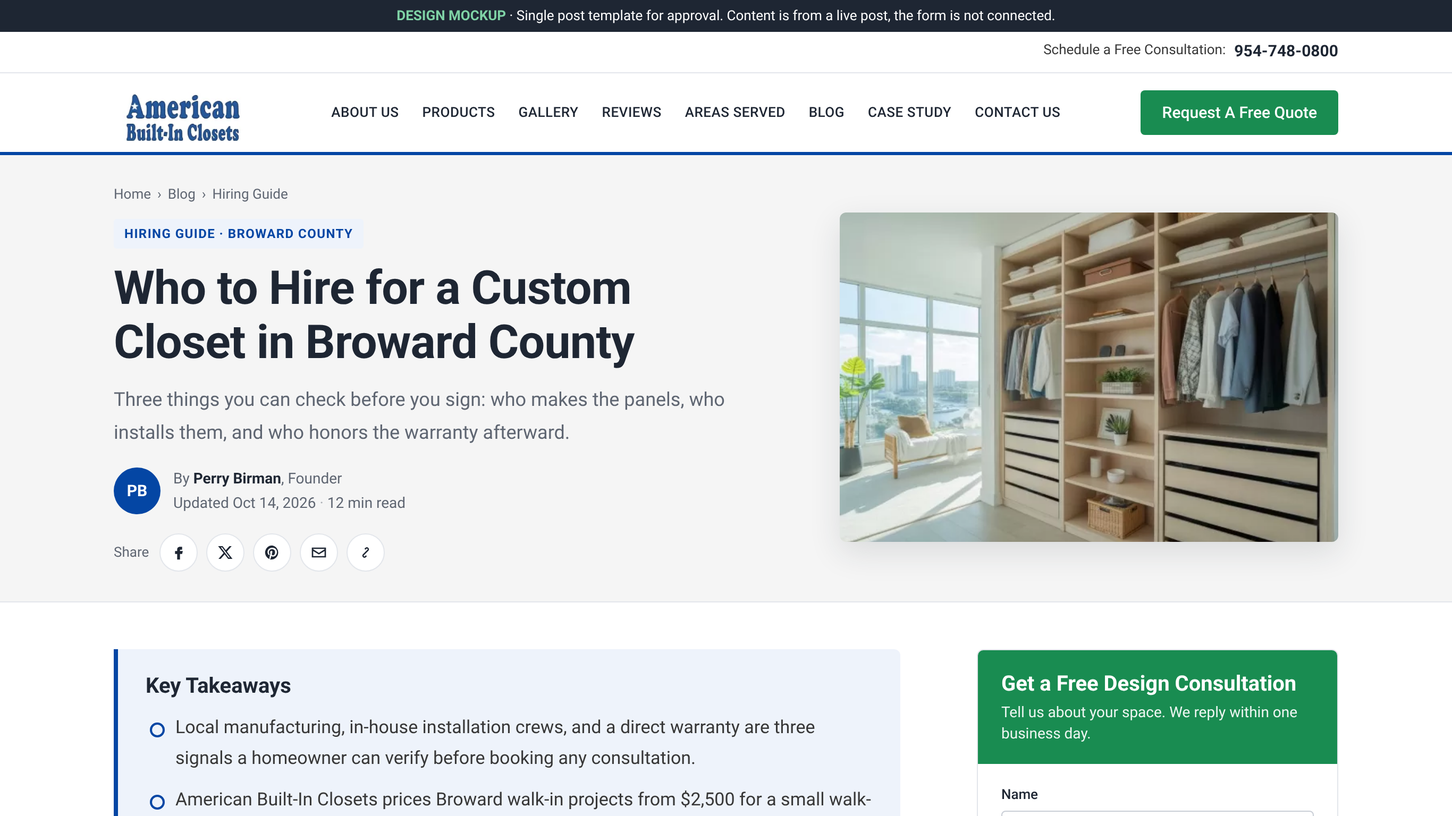
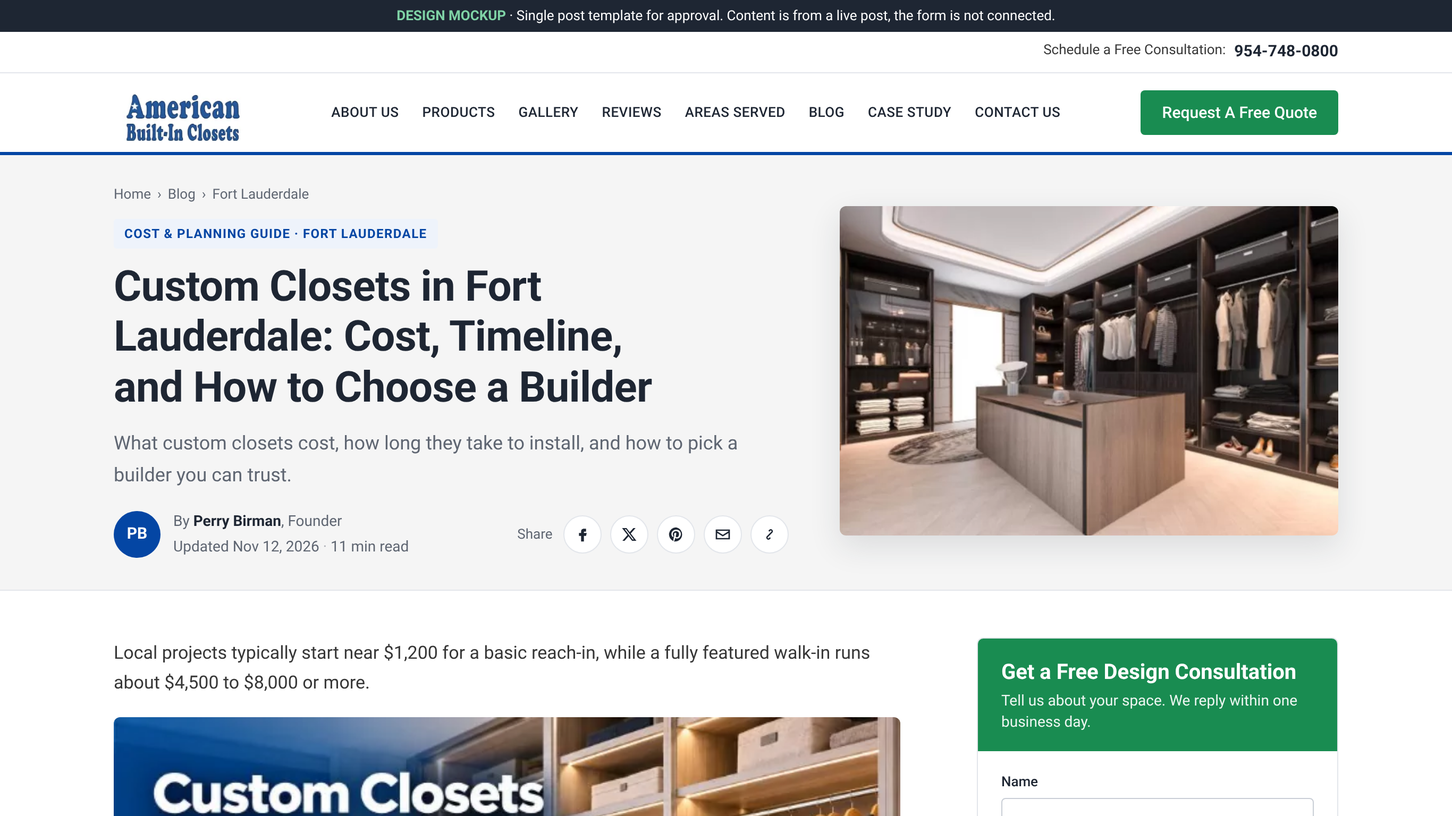
Use Fort Lauderdale post content in single post mockup
Swap in the full content of custom-closet-designer-fort-lauderdale
(tables, inline images, neighborhoods, permit section, 10 FAQs).
Add styled tables that stack as cards on mobile, a contact band,
and move share icons beside the byline to keep the hero near 410px.

Claude-Session: https://claude.ai/code/session_01EBgQvJjERmq5Bnq5eGdiC9

diff --git a/mockups/single-post-layout.html b/mockups/single-post-layout.html
@@ -51,13 +51,15 @@
   .crumbs a{color:var(--muted);text-decoration:none} .crumbs a:hover{text-decoration:underline}
   .crumbs span{margin:0 6px}
   .chip{display:inline-block;background:var(--tint);color:var(--navy);font-size:12px;font-weight:700;letter-spacing:.06em;text-transform:uppercase;padding:4px 10px;border-radius:3px;margin-bottom:12px}
-  h1{font-size:44px;line-height:1.15;color:var(--heading);margin:0 0 14px;font-weight:700;text-wrap:balance;letter-spacing:-.01em}
+  h1{font-size:40px;line-height:1.18;color:var(--heading);margin:0 0 14px;font-weight:700;text-wrap:balance;letter-spacing:-.01em}
   .dek{font-size:18px;color:var(--muted);margin:0 0 16px;max-width:60ch}
   .meta{display:flex;align-items:center;gap:12px;flex-wrap:wrap;font-size:14px;color:var(--muted)}
   .avatar{width:44px;height:44px;border-radius:50%;background:var(--navy);color:#fff;display:grid;place-items:center;font-weight:700;font-size:15px;flex:none}
   .meta strong{color:var(--heading)}
   .meta .dot{opacity:.5}
   .hero-actions{display:flex;align-items:center;gap:16px;margin-top:16px;flex-wrap:wrap}
+  .byline-row{display:flex;align-items:center;justify-content:space-between;gap:16px 24px;flex-wrap:wrap}
+  .byline-row .hero-actions{margin-top:0}
   .hero-img{border-radius:var(--radius);overflow:hidden;aspect-ratio:3/2;max-height:310px;width:100%;box-shadow:0 10px 30px rgba(30,38,51,.12)}
   .hero-img img{width:100%;height:100%;object-fit:cover}
 
@@ -132,6 +134,22 @@
   .card small{color:var(--green);font-weight:700;font-size:11px;letter-spacing:.06em;text-transform:uppercase}
   .card h3{font-size:16px;line-height:1.35;margin:6px 0 0;color:var(--heading)}
 
+  .inline-img{margin:8px 0 26px}
+  .inline-img img{width:100%;height:auto;border-radius:var(--radius)}
+  .table-wrap{overflow-x:auto;margin:6px 0 24px;border:1px solid var(--line);border-radius:var(--radius)}
+  .table-wrap table{border-collapse:collapse;width:100%;font-size:15px;line-height:1.5;min-width:520px}
+  .table-wrap th{background:var(--navy);color:#fff;text-align:left;font-weight:500;padding:12px 14px}
+  .table-wrap td{padding:11px 14px;border-top:1px solid var(--line);vertical-align:top}
+  .table-wrap tbody tr:nth-child(even){background:var(--bg-soft)}
+  .table-wrap td:first-child{font-weight:500;color:var(--heading)}
+  .cta-btns{display:flex;flex-direction:column;gap:10px}
+  .btn.ghost-light{background:transparent;border:1.5px solid rgba(255,255,255,.7);color:#fff}
+  .btn.ghost-light:hover{background:rgba(255,255,255,.12)}
+  .contact-band{background:var(--bg-soft);border:1px solid var(--line);border-radius:var(--radius);padding:22px 24px}
+  .contact-band p{margin:0 0 16px}
+  .contact-band .cta-btns{flex-direction:row;flex-wrap:wrap}
+  article ul li strong{color:var(--heading)}
+
   /* Sidebar */
   aside{display:flex;flex-direction:column;gap:24px}
   .box{border:1px solid var(--line);border-radius:var(--radius);background:#fff;overflow:hidden}
@@ -174,7 +192,7 @@
   @media (max-width:900px){
     .hero .wrap{grid-template-columns:1fr;gap:24px;padding-top:24px;padding-bottom:28px}
     .hero-img{aspect-ratio:16/9;max-height:none}
-    .layout{grid-template-columns:1fr;padding-top:28px}
+    .layout{grid-template-columns:minmax(0,1fr);padding-top:28px}
     article{max-width:none}
     .toc-inline{display:block}
     .toc-box{display:none}
@@ -191,6 +209,16 @@
     article h2{font-size:23px}
     .hero-actions .share .lbl{display:none}
     .inline-cta{grid-template-columns:1fr;padding:22px}
+    .contact-band .cta-btns{flex-direction:column}
+    .table-wrap{border:0;overflow:visible}
+    .table-wrap table{min-width:0}
+    .table-wrap thead{position:absolute;width:1px;height:1px;overflow:hidden;clip:rect(0 0 0 0)}
+    .table-wrap tr{display:block;border:1px solid var(--line);border-radius:var(--radius);margin-bottom:10px;background:#fff!important;overflow:hidden}
+    .table-wrap td{display:grid;grid-template-columns:42% 1fr;gap:10px;border-top:1px solid var(--line);padding:9px 14px}
+    .table-wrap td::before{content:attr(data-label);font-weight:500;color:var(--muted);font-size:13px}
+    .table-wrap td:first-child{display:block;border-top:0;background:var(--navy);color:#fff}
+    .table-wrap td:first-child::before{display:none}
+    .contact-band .btn{width:100%}
     .author{grid-template-columns:1fr}
     .cards{grid-template-columns:1fr}
     .mobile-bar{display:grid;grid-template-columns:1fr 1fr;position:fixed;left:0;right:0;bottom:0;z-index:55;box-shadow:0 -4px 16px rgba(0,0,0,.12)}
@@ -221,13 +249,14 @@
   <section class="hero">
     <div class="wrap">
       <div>
-        <p class="crumbs"><a href="#">Home</a><span>›</span><a href="#">Blog</a><span>›</span>Hiring Guide</p>
-        <span class="chip">Hiring Guide · Broward County</span>
-        <h1>Who to Hire for a Custom Closet in Broward County</h1>
-        <p class="dek">Three things you can check before you sign: who makes the panels, who installs them, and who honors the warranty afterward.</p>
+        <p class="crumbs"><a href="#">Home</a><span>›</span><a href="#">Blog</a><span>›</span>Fort Lauderdale</p>
+        <span class="chip">Cost &amp; Planning Guide · Fort Lauderdale</span>
+        <h1>Custom Closets in Fort Lauderdale: Cost, Timeline, and How to Choose a Builder</h1>
+        <p class="dek">What custom closets cost, how long they take to install, and how to pick a builder you can trust.</p>
+        <div class="byline-row">
         <div class="meta">
           <div class="avatar" aria-hidden="true">PB</div>
-          <div>By <strong>Perry Birman</strong>, Founder<br><span>Updated Oct 14, 2026</span> <span class="dot">·</span> <span>12 min read</span></div>
+          <div>By <strong>Perry Birman</strong>, Founder<br><span>Updated Nov 12, 2026</span> <span class="dot">·</span> <span>11 min read</span></div>
         </div>
         <div class="hero-actions">
           <div class="share" aria-label="Share this article">
@@ -239,9 +268,10 @@
             <button type="button" class="copy" aria-label="Copy link"><svg viewBox="0 0 24 24"><path d="M10.6 13.4a1 1 0 0 0 1.4 0l4-4a3 3 0 0 0-4.2-4.2l-1.5 1.5 1.4 1.4 1.5-1.5a1 1 0 0 1 1.4 1.4l-4 4a1 1 0 0 0 0 1.4zm2.8-2.8a1 1 0 0 0-1.4 0l-4 4a3 3 0 0 0 4.2 4.2l1.5-1.5-1.4-1.4-1.5 1.5a1 1 0 0 1-1.4-1.4l4-4a1 1 0 0 0 0-1.4z"/></svg></button>
           </div>
         </div>
+        </div>
       </div>
       <figure class="hero-img" style="margin:0">
-        <img src="https://www.abclosets.com/wp-content/uploads/2025/12/bc1.jpg" alt="Custom walk-in closet with wood shelving and hanging rods, built by American Built-In Closets" width="800" height="600">
+        <img src="https://www.abclosets.com/wp-content/uploads/2026/02/abc2.jpg" alt="Custom walk-in closet with built-in shelving and drawers in a Fort Lauderdale home" width="800" height="533">
       </figure>
     </div>
   </section>
@@ -254,66 +284,172 @@
         <ol id="tocInline"></ol>
       </details>
 
+      <p>Local projects typically start near $1,200 for a basic reach-in, while a fully featured walk-in runs about $4,500 to $8,000 or more.</p>
+      <figure class="inline-img">
+        <img src="https://www.abclosets.com/wp-content/uploads/2026/02/abc4-1.jpg" alt="Custom closet system with shelving and hanging space installed in a Fort Lauderdale home" width="624" height="348" loading="lazy">
+      </figure>
+      <p>American Built-In Closets, a closet design and manufacturing company based in Lauderdale Lakes, Florida, handles reach-in and <a href="#">walk-in closet design</a> projects across the city, and most single closets go in within one working day.</p>
+
       <div class="takeaways">
         <h2 id="key-takeaways">Key Takeaways</h2>
         <ul>
-          <li>Local manufacturing, in-house installation crews, and a direct warranty are three signals a homeowner can verify before booking any consultation.</li>
-          <li>American Built-In Closets prices Broward walk-in projects from $2,500 for a small walk-in to $8,000 and above for a fully featured one.</li>
-          <li>The FTC Cooling-Off Rule covers in-home sales of $25 or more, including invited presentations.</li>
-          <li>Line-item quotes reveal panel thickness, drawer construction, and hardware ratings that a single bundled number conceals.</li>
+          <li>Fort Lauderdale closet projects start near $1,200 for a basic reach-in, fully featured walk-ins run about $4,500 to $8,000 or more, and luxury builds pass $10,000.</li>
+          <li>Most reach-ins and standard walk-ins install in one working day, and large or luxury walk-ins can take two.</li>
+          <li>Since July 1, 2026, Fort Lauderdale can exempt some cosmetic single-family work under $7,500 from a building permit, but only with written approval; condos and electrical work are excluded.</li>
+          <li>The EPA recommends indoor relative humidity below 60%, ideally between 30% and 50%, a target that shapes closet material choices near the coast.</li>
         </ul>
       </div>
+      <div class="callout"><p>Sagging wire shelves and wasted ceiling height cost Fort Lauderdale homeowners storage every day. American Built-In Closets builds around each measured inch. <a href="#form">Request a free quote</a>.</p></div>
 
-      <p>Hiring a custom closet company in Broward County comes down to three verifiable things: who manufactures the panels, who installs them, and who honors the warranty afterward.</p>
-      <p>A company that handles all three keeps responsibility in one place instead of splitting it across a design seller, a separate production facility, and a third-party warranty administrator.</p>
-      <p><a href="#">Built-in closet systems</a> made in-county also get specified for coastal humidity and concrete construction, two conditions a locally based shop encounters on every project.</p>
-
-      <h2 id="who-to-hire">Who Should Broward County Homeowners Hire for a Custom Closet?</h2>
-      <p>The strongest choice is a company that designs, manufactures and installs under one roof, and that can show you finished Broward projects similar in size and budget to yours.</p>
+      <h2 id="who-does-custom-closets">Who Does Custom Closets in Fort Lauderdale?</h2>
+      <p>American Built-In Closets designs, manufactures, and installs custom closets for Fort Lauderdale homes and condos, keeping every stage in-house. <a href="#">Perry Birman</a> opened the business in 1996 and oversees its design and production standards.</p>
+      <p>The work splits into three stages, each handled in-house:</p>
       <ul>
-        <li>Ask where the panels are cut and edge-banded.</li>
-        <li>Confirm the installers are employees, not subcontractors.</li>
-        <li>Get the warranty terms in writing, with the company's name on them.</li>
+        <li><strong>Design:</strong> A designer meets the homeowner in person or by video, then builds a 3D digital model that both sides adjust before anything is cut.</li>
+        <li><strong>Manufacturing:</strong> The company cuts panels to the measured dimensions in its own shop, using materials sourced in North America and Europe.</li>
+        <li><strong>Installation:</strong> A trained crew mounts the system and protects floors and walls during the work.</li>
       </ul>
+      <p>Owning design, cutting, and installation gives homeowners one contact from the first measurement to the final adjustment, whether the project is a bedroom reach-in or a wall of <a href="#">built-in closets</a> in a guest room.</p>
 
-      <h2 id="manufacturer-vs-reseller">What Separates a Custom Closet Manufacturer From a Reseller?</h2>
-      <p>A reseller sells a design and orders the parts from someone else. A manufacturer controls material selection, tolerances and lead times, so changes and repairs move faster.</p>
-      <div class="callout"><p>A closet system is a long-term fixture, not a seasonal purchase. American Built-In Closets manufactures and installs in-house. <a href="#quote">Request a free quote</a>.</p></div>
+      <h2 id="cost">What Does a Custom Closet Cost in Fort Lauderdale?</h2>
+      <p>A custom closet in Fort Lauderdale usually costs between $1,200 and $8,000, and luxury walk-ins can pass $10,000. Closet size, drawer count, hardware grade, and lighting move the number more than anything else.</p>
+      <p>American Built-In Closets cuts its own panels instead of buying finished components, which removes a middle layer of markup from the quote.</p>
+      <div class="table-wrap" role="region" aria-label="Custom closet prices in Fort Lauderdale" tabindex="0">
+        <table>
+          <thead><tr><th scope="col">Project or upgrade</th><th scope="col">Typical price</th><th scope="col">What pushes it higher</th></tr></thead>
+          <tbody>
+            <tr><td data-label="Project or upgrade">Basic reach-in</td><td data-label="Typical price">From about $1,200</td><td data-label="What pushes it higher">Extra drawers, specialty shoe or accessory storage</td></tr>
+            <tr><td data-label="Project or upgrade">Small walk-in</td><td data-label="Typical price">From about $2,500</td><td data-label="What pushes it higher">More linear feet of hanging and shelving</td></tr>
+            <tr><td data-label="Project or upgrade">Fully featured walk-in</td><td data-label="Typical price">$4,500 to $8,000+</td><td data-label="What pushes it higher">Islands, drawer banks, floor-to-ceiling shoe walls</td></tr>
+            <tr><td data-label="Project or upgrade">Luxury configuration</td><td data-label="Typical price">Above $10,000</td><td data-label="What pushes it higher">Premium finishes, glass fronts, lighting scenes</td></tr>
+            <tr><td data-label="Project or upgrade">Integrated LED lighting</td><td data-label="Typical price">$300 to $800</td><td data-label="What pushes it higher">Number of zones, motion sensors</td></tr>
+            <tr><td data-label="Project or upgrade">Soft-close hardware upgrade (6 drawers, 4 doors)</td><td data-label="Typical price">$200 to $350</td><td data-label="What pushes it higher">Full-extension glides, high-cycle hinges</td></tr>
+          </tbody>
+        </table>
+      </div>
+      <p>These ranges are starting points, not quotes. The final price comes from an itemized estimate issued after in-home measurement and a 3D rendering, with panel material, hardware, and labor listed separately. Two quotes only compare fairly when materials, drawer counts, and accessories match line for line.</p>
+      <p>Residential LEDs use at least 75% less energy and last up to 25 times longer than incandescent bulbs, according to the <a href="https://www.energy.gov/energysaver/led-lighting">U.S. Department of Energy</a>, which makes lighting a small line item with a daily payoff.</p>
+      <p>A full breakdown of <a href="#">custom closet costs</a> by material tier helps a homeowner set a budget before the first visit.</p>
 
-      <!-- Mid-article CTA, placed after ~40% of the content -->
+      <h2 id="install-time">How Long Does Custom Closet Installation Take?</h2>
+      <p>Most Fort Lauderdale custom closets are installed in a single working day because every panel arrives pre-cut. Large or luxury walk-ins can take two.</p>
+      <p>The full project takes longer because fabrication happens between design approval and installation day.</p>
+      <div class="table-wrap" role="region" aria-label="Closet installation time by closet type" tabindex="0">
+        <table>
+          <thead><tr><th scope="col">Closet type</th><th scope="col">Linear footage</th><th scope="col">Time on site</th><th scope="col">Installers</th></tr></thead>
+          <tbody>
+            <tr><td data-label="Closet type">Reach-in</td><td data-label="Linear footage">4 to 6 feet</td><td data-label="Time on site">One working day</td><td data-label="Installers">1 or 2</td></tr>
+            <tr><td data-label="Closet type">Standard walk-in</td><td data-label="Linear footage">10 to 12 feet</td><td data-label="Time on site">One working day</td><td data-label="Installers">2</td></tr>
+            <tr><td data-label="Closet type">Large or luxury walk-in</td><td data-label="Linear footage">14 to 16 feet or more</td><td data-label="Time on site">Up to two days</td><td data-label="Installers">2 or 3</td></tr>
+          </tbody>
+        </table>
+      </div>
+      <p>A project moves from a <a href="#">design consultation</a>, which usually lasts 60 to 90 minutes in the home, to 3D design approval, fabrication, and installation.</p>
+      <p>Fabrication time depends on project size and the production schedule, and large walk-ins with specialty features are most likely to need a second day on site.</p>
+      <p>The installation process ends with a walkthrough in which the homeowner tests each drawer and rod before the crew leaves, so problems get fixed on the spot.</p>
+
+      <h2 id="neighborhoods">Which Fort Lauderdale Neighborhoods Are Served?</h2>
+      <p>American Built-In Closets works throughout Fort Lauderdale, from historic single-family streets to high-rise towers.</p>
+      <p>Housing stock varies inside every neighborhood, so the notes below describe common conditions rather than every home.</p>
+      <h3>Victoria Park</h3>
+      <p>Homes in <a href="#">Victoria Park</a> include 1930s houses, 1940s cottages, and post-war bungalows, and many have a single shallow reach-in behind a door. Some properties are protected by preservation rules or neighborhood guidelines that limit structural changes.</p>
+      <p>Closet systems here fit inside the existing walls, using vertical space and floating shelves, so original trim and floor plans stay as they are.</p>
+      <h3>Las Olas</h3>
+      <p>The <a href="#">Las Olas</a> area mixes high-rise condos with waterfront estates, and both face salt air and steady humidity.</p>
+      <p>Open-concept floor plans often leave little enclosed storage. Systems for these homes use sealed laminates and corrosion-resistant hardware, with walk-ins that can add center islands, glass shelving, and motion-activated lighting.</p>
+      <p>Condo projects also need early coordination with building management on work hours, elevator reservations, and modification approvals.</p>
+      <h3>Coral Ridge</h3>
+      <p>Many family homes in <a href="#">Coral Ridge</a> date from the mid-century period, and their reach-ins fill quickly when several people share them.</p>
+      <p>Layouts here give each family member a separate zone with double hanging, pull-out drawers, and adjustable shelves. Homes near the Intracoastal Waterway get rust-resistant fixtures and moisture-sealed laminates.</p>
+      <h3>Rio Vista</h3>
+      <p>Waterfront houses in <a href="#">Rio Vista</a> often have multiple levels, sloped ceilings, narrow stairwells, and curved walls that standard layouts cannot fit. Designs work around that architecture without demolition.</p>
+      <p>Owners here often ask for lockable jewelry drawers, built-in safes, valet rods, and full-height shoe walls with concealed lighting, finished to match existing millwork.</p>
+
+      <!-- Mid-article CTA: merges the post's "Planning a closet..." line and "Call or Text Us" button into one block -->
       <div class="inline-cta" id="quote">
         <div>
-          <h3>Planning a closet in Broward County?</h3>
-          <p>Get a free in-home design consultation and a line-item quote. Made in South Florida since 1996.</p>
+          <h3>Planning a closet in a Fort Lauderdale home or tower?</h3>
+          <p>American Built-In Closets sizes every panel to the room. Get a free quote, or call or text us now.</p>
         </div>
-        <a class="btn" href="#form">Get My Free Quote</a>
+        <div class="cta-btns">
+          <a class="btn" href="#form">Request a Free Quote</a>
+          <a class="btn ghost-light" href="tel:+19547480800">Call 954-748-0800</a>
+        </div>
       </div>
 
-      <h2 id="local-vs-franchise">Does a Local Manufacturer or a National Franchise Fit a Broward Home Better?</h2>
-      <p>Franchise quotes for equivalent projects often start around $6,000, with scope and materials moving any single number. A local manufacturer can usually match the design at a lower price because there is no franchise fee in the quote.</p>
+      <h2 id="permit">Does a Custom Closet Need a Permit in Fort Lauderdale?</h2>
+      <figure class="inline-img">
+        <img src="https://www.abclosets.com/wp-content/uploads/2026/02/abc5-1.jpg" alt="Custom closet installation in a single-family Fort Lauderdale home" width="623" height="349" loading="lazy">
+      </figure>
+      <p>Whether a closet project needs a Fort Lauderdale building permit depends on the property type, job value, and scope of work, and the City Building Official makes the final call.</p>
+      <p>A Florida law that took effect July 1, 2026, opened a narrow exemption for small single-family projects, but not every closet installation qualifies.</p>
+      <p>The City of Fort Lauderdale lays out the rules on its <a href="https://www.fortlauderdale.gov/Government/Departments/Development-Services/HB-803">HB 803 permitting page</a>:</p>
+      <ul>
+        <li><strong>Eligibility:</strong> Certain work on a single-family home valued under $7,500, based on a licensed contractor’s estimate, can be exempt. Cabinet replacement and other cosmetic, non-structural work appear among the city’s examples, but a specific closet job qualifies only if its actual scope fits.</li>
+        <li><strong>Approval first:</strong> The exemption is not automatic. The owner or contractor submits the Residential Permit Exemption Request form and a job cost estimate through LauderBuild, then waits for written approval before starting work.</li>
+        <li><strong>Exclusions:</strong> Condominiums, apartments, multifamily buildings, and homes in flood hazard areas do not qualify, and neither do electrical, plumbing, mechanical, gas, or structural work.</li>
+        <li><strong>No splitting:</strong> Breaking a larger job into smaller ones to stay under $7,500 is not allowed.</li>
+        <li><strong>Other approvals:</strong> Zoning, setbacks, and HOA or association requirements still apply to exempt work.</li>
+      </ul>
+      <p><a href="#">Closet lighting</a> that needs new circuits counts as electrical work, so it falls outside the exemption.</p>
+      <p>Condo owners and anyone unsure can ask the city’s <a href="https://www.fortlauderdale.gov/Government/Departments/Development-Services/Permitting-Services">Building Services division</a>, which issues permits and runs inspections, before fabrication starts.</p>
 
-      <h2 id="questions-before-signing">What Should a Homeowner Ask Before Signing a Closet Contract?</h2>
-      <p>Ask for panel thickness, drawer box construction, hardware brand and cycle rating, installation labor, and warranty terms as separate lines.</p>
+      <h2 id="humidity">How Do Humidity and Salt Air Affect Closet Materials in Fort Lauderdale?</h2>
+      <p>Coastal humidity wears down closet materials that are not sealed or ventilated. The <a href="https://www.epa.gov/mold/brief-guide-mold-moisture-and-your-home">EPA’s mold and moisture guide</a> recommends keeping indoor relative humidity below 60%, ideally between 30% and 50%, and suggests air conditioning, dehumidifiers, and better airflow to get there.</p>
+      <p>Four construction details decide how a closet copes with that moisture:</p>
+      <ul>
+        <li><strong>Panel core:</strong> High-density melamine generally holds its shape in damp air better than standard laminate over low-density particleboard, which can warp under load.</li>
+        <li><strong>Edge sealing:</strong> Factory-sealed edges keep moisture out of the core, while open or poorly bonded edge banding lets it in and starts to peel.</li>
+        <li><strong>Hardware:</strong> Corrosion-resistant hinges, glides, and rods matter most near the beach and the Intracoastal, where salt air reaches inland.</li>
+        <li><strong>Airflow:</strong> Layouts that let air move, along with extra care for closets that share an exterior wall, limit trapped moisture and musty odors.</li>
+      </ul>
+      <p>How long any system lasts also depends on installation quality, daily use, and how well the home controls humidity, so no single lifespan figure fits every Fort Lauderdale closet.</p>
+      <p>A comparison of <a href="#">closet materials</a> shows the trade-offs by tier, which helps a homeowner decide where better panels and hardware earn their cost.</p>
 
-      <h2 id="cities-served">Which Broward Cities Does American Built-In Closets Serve?</h2>
-      <p>Fort Lauderdale, Hollywood, Pembroke Pines, Coral Springs, Weston, Plantation, Davie and the rest of Broward County, plus Miami-Dade and Palm Beach.</p>
+      <h2 id="choose-company">How to Choose a Closet Company in Fort Lauderdale</h2>
+      <p>Choosing a Fort Lauderdale closet company comes down to checking who cuts the panels, who installs them, and what the paperwork promises. Each check takes minutes and protects a purchase that stays in the home for years.</p>
+      <ul>
+        <li><strong>License status:</strong> Use the Florida Department of Business and Professional Regulation’s <a href="https://www.myfloridalicense.com/">license verification tool</a> to look up the company or its contractor by name or license number.</li>
+        <li><strong>Production and crew:</strong> Ask where they cut panels and whether installers are employees or subcontractors.</li>
+        <li><strong>Itemized pricing:</strong> Request a quote that lists panel material, drawer construction, hardware, and labor line by line, which makes <a href="#">comparing closet quotes</a> straightforward.</li>
+        <li><strong>Warranty and service:</strong> Ask for the warranty document, what it covers, and who handles repair calls after installation.</li>
+        <li><strong>Change orders:</strong> Ask how the price changes if final measurements or wall conditions differ from the proposal.</li>
+        <li><strong>Schedule in writing:</strong> Get the fabrication window and installation date on paper.</li>
+        <li><strong>Cancellation rights:</strong> The <a href="https://consumer.ftc.gov/articles/buyers-remorse-ftcs-cooling-rule-may-help">FTC Cooling-Off Rule</a> can allow cancellation until midnight of the third business day for qualifying sales of $25 or more made at home, including invited presentations. Exclusions apply, so whether a given contract qualifies depends on how and where it was finalized.</li>
+      </ul>
+      <p>The same checklist applies anywhere in <a href="#">Broward County</a>, from Hollywood to Deerfield Beach, because the risks of split responsibility don’t change at the city line.</p>
 
-      <h2 id="process">What Does the Design and Installation Process Involve?</h2>
-      <p>Measure and design, approve the 3D drawing, fabrication in our shop, then a scheduled installation, usually in one day for a standard walk-in.</p>
+      <h2 id="contact">Contact Us Today For An Appointment</h2>
+      <div class="contact-band">
+        <p>Free in-home or video design consultations across Fort Lauderdale and Broward County. Fill out the form or call us. We reply within one business day.</p>
+        <div class="cta-btns">
+          <a class="btn" href="#form">Book a Free Consultation</a>
+          <a class="btn ghost" href="tel:+19547480800">Call or Text 954-748-0800</a>
+        </div>
+      </div>
 
       <h2 id="faq">Frequently Asked Questions</h2>
       <div class="faq">
-        <details open><summary>How can a homeowner compare closet quotes fairly?</summary><p>Line-item comparison works best: panel material and thickness, drawer box construction, hardware brand and cycle rating, installation labor, and warranty terms.</p></details>
-        <details><summary>Does a condominium or HOA affect who a homeowner can hire?</summary><p>Associations generally leave the choice of company to the owner, but many require proof of insurance, scheduled work hours, and elevator or loading access arrangements.</p></details>
-        <details><summary>How long does a custom closet take from design to install?</summary><p>Most projects take a few weeks from approved design to installation, depending on materials and the size of the space.</p></details>
+        <details open><summary>How much does a custom closet cost in Fort Lauderdale?</summary><p>A custom closet in Fort Lauderdale typically starts near $1,200 for a basic reach-in, while a fully featured walk-in runs about $4,500 to $8,000 or more. The final figure comes from an itemized quote after in-home measurement, since drawers, hardware, and lighting change the total.</p></details>
+        <details><summary>How long does it take to install a custom closet?</summary><p>Installing a custom closet usually takes one working day once panels are cut. Large or luxury walk-ins can need a second day. Consultation, design approval, and fabrication come first, so the whole project takes longer.</p></details>
+        <details><summary>Does a closet system need a permit in Fort Lauderdale?</summary><p>A closet system in Fort Lauderdale may need a building permit depending on scope, and the city decides. Some single-family, non-structural jobs under $7,500 can receive a written HB 803 exemption, but condos, flood-zone homes, and new electrical work are excluded.</p></details>
+        <details><summary>Can a custom closet be installed in a Fort Lauderdale condo?</summary><p>Yes. Custom closets fit Fort Lauderdale condos, including high-rise units near Las Olas, with compact reach-in layouts and vertical storage ideas for <a href="#">condo closet planning</a>. Installers must coordinate work hours, elevator reservations, and proof of insurance with building management.</p></details>
+        <details><summary>Is a custom closet worth it compared to wire shelving?</summary><p>A custom closet often suits Fort Lauderdale homes better than wire shelving, which can corrode at its joints in humid air. Sealed panels and corrosion-resistant hardware handle moisture more reliably, though real value still depends on materials, edge sealing, ventilation, and daily use.</p></details>
+        <details><summary>What closet materials hold up best in Fort Lauderdale humidity?</summary><p>Sealed high-density melamine and properly finished wood veneer tend to hold up better in Fort Lauderdale humidity, because both resist moisture at the surface and edges. Standard laminate over low-density particleboard can warp, and poorly bonded edge banding can peel in damp air.</p></details>
+        <details><summary>What happens after requesting a design consultation?</summary><p>After you request a consultation, a designer measures the closet in your home or reviews measurements you send by video. In Broward County, these consultations are free; the designer builds a 3D model, and the quote itemizes each cost, so the homeowner sees layout and price first.</p></details>
+        <details><summary>Does American Built-In Closets offer virtual design consultations?</summary><p>Yes. American Built-In Closets offers design consultations by video as well as in person. A virtual meeting works best when the homeowner sends accurate measurements, clear photos, and a wardrobe count, while an in-home visit lets the designer confirm dimensions and obstacles directly.</p></details>
+        <details><summary>Can a homeowner cancel a closet contract after signing it?</summary><p>Sometimes. The FTC Cooling-Off Rule covers many sales of $25 or more made at a buyer’s home, including invited visits, until midnight of the third business day. Exclusions apply, including sales finalized at a seller’s permanent business location, so each contract’s circumstances decide.</p></details>
+        <details><summary>Who installs American Built-In Closets systems?</summary><p>American Built-In Closets handles the <a href="#">custom closet installation process</a> with a trained crew instead of passing the job to subcontractors. The crew covers floors, mounts a level frame, adds panels and hardware, then walks the homeowner through every drawer and rod before leaving.</p></details>
       </div>
 
       <h2 id="bottom-line">Bottom Line</h2>
-      <p>Hiring well in Broward County means checking where panels are made, who installs them, and who services the warranty.</p>
-      <p>Quotes for the same closet vary widely in this market, so a line-item comparison shows what a bundled price hides.</p>
+      <p>Budget planning starts with closet type, drawer count, and lighting zones, since those decide where a Fort Lauderdale project lands in the price range. A <a href="#">master bedroom closet</a> for two people usually sits higher in that range than a single reach-in.</p>
+      <p>Single-family owners with small cosmetic jobs need written city approval before relying on the HB 803 exemption, and condo owners should plan around permits and building rules.</p>
+      <p>Near the coast, sealed panels, corrosion-resistant hardware, and airflow matter most, and a company that cuts its own panels and handles installation itself keeps responsibility in one place.</p>
+      <div class="callout"><p>An overstuffed Fort Lauderdale closet is a fixable problem. American Built-In Closets has measured, built, and installed closets in South Florida since 1996. <a href="#form">Request a free design consultation</a>.</p></div>
 
       <div class="share-end">
-        <div class="tags"><a href="#">Broward County</a><a href="#">Hiring Guide</a><a href="#">Walk-In Closets</a></div>
+        <div class="tags"><a href="#">Fort Lauderdale</a><a href="#">Closet Costs</a><a href="#">Permits</a><a href="#">Walk-In Closets</a></div>
         <div class="share" aria-label="Share this article">
           <span class="lbl">Found this helpful? Share it</span>
           <a href="#" aria-label="Share on Facebook"><svg viewBox="0 0 24 24"><path d="M14 8h3V4h-3c-2.8 0-4 1.7-4 4.2V10H7v4h3v8h4v-8h3l1-4h-4V8.6c0-.4.3-.6.6-.6z"/></svg></a>
@@ -339,9 +475,9 @@
       <section class="related" aria-labelledby="related-h">
         <h2 id="related-h">Related Articles</h2>
         <div class="cards">
-          <a class="card" href="#"><div class="ph"></div><div class="b"><small>Condos</small><h3>Closet Solutions for South Florida High-Rise Apartments</h3></div></a>
-          <a class="card" href="#"><div class="ph"></div><div class="b"><small>Cost Guide</small><h3>Built-In Closets vs. Wire Shelving: Cost and Durability</h3></div></a>
-          <a class="card" href="#"><div class="ph"></div><div class="b"><small>Accessibility</small><h3>Designing an ADA-Compliant Custom Closet</h3></div></a>
+          <a class="card" href="#"><div class="ph"></div><div class="b"><small>Cost Guide</small><h3>Custom Closet Costs in South Florida by Material Tier</h3></div></a>
+          <a class="card" href="#"><div class="ph"></div><div class="b"><small>Materials</small><h3>Best Materials for Custom Closets in a Humid Climate</h3></div></a>
+          <a class="card" href="#"><div class="ph"></div><div class="b"><small>Hiring Guide</small><h3>Who to Hire for a Custom Closet in Broward County</h3></div></a>
         </div>
       </section>
     </article>
